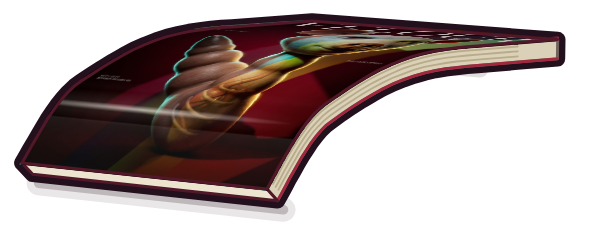
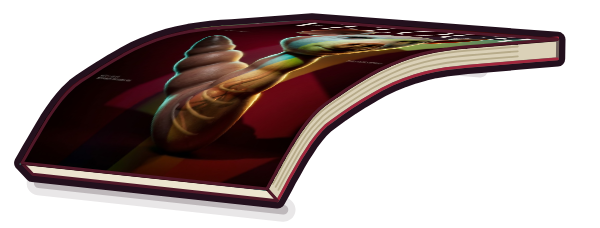
Журнал похоти: без блика и тени на верхнем журнале
На посадке поверх лёгшего css-журнала проявлялась картинка сцены, и
блик на перегибе с тенью по провису вырастали из ниоткуда. Свет убран
и с картинки (перезапечена), и с летящего журнала.

Claude-Session: https://claude.ai/code/session_01K1upDKnodTpzUTVuA9HxnG

Changed region(s): [[0.09, 0.4298, 0.45, 0.5833], [0.51, 0.1228, 0.87, 0.2149], [0.45, 0.5833, 0.48, 0.614]]

diff --git a/src/minigames/lust/lust-mag.js b/src/minigames/lust/lust-mag.js
@@ -132,9 +132,10 @@ const LustMag = {
         this._inner = null; this.inner(false);
         // Призрак — та же запечённая картинка, что лежит в сцене, на её
         // точном месте. Летит та же толстая модель, но картинка сцены
-        // нарисована тоньше css (свет, блик, тень на крышке) — подмена идёт
+        // нарисована тоньше css (скругления, тень на крышке) — подмена идёт
         // растворением поверх журнала, пока тот ещё лежит (GHOST мс); на
-        // закрытии картинка проявляется, когда журнал уже лёг.
+        // закрытии картинка проявляется, когда журнал уже лёг. Света на
+        // верхнем журнале нет ни там, ни там (bath-mag.js, drawVector).
         const gh = this.$('.bm-ghost'), B = typeof BATH_MAG_BAKED !== 'undefined' ? BATH_MAG_BAKED.top : null;
         if (B) {
             const c = G.c;
@@ -210,7 +211,6 @@ const LustMag = {
         const Mg = PALETTE.bathScene.magazine, Pp = Mg.paper, ink = PALETTE.ink;
         const cl = (v) => Math.max(0, Math.min(1, v));
         const paper = (t) => mixColor(Pp.lo, Pp[500], cl((t + 0.45) / 0.9));
-        const ic = parseCssColor(ink), shade = (a) => `rgba(${ic.r},${ic.g},${ic.b},${a.toFixed(3)})`;
         // Линии листов поперёк толщины — как у торца на картинке (bath-mag.js, pages).
         const leaves = (deg, t) => `linear-gradient(${deg}deg, ${paper(t)} 0 26%, ${Pp.line} 26% 32%, ${paper(t)} 32% 51%, ${Pp.line} 51% 57%, ${paper(t)} 57% 76%, ${Pp.line} 76% 82%, ${paper(t)} 82%)`;
         const spine = `linear-gradient(90deg, ${Mg.pinup[500]}, ${Mg.pinup.lo})`;
@@ -282,7 +282,6 @@ const LustMag = {
             const at = (x, u, d) => [x, q.y + c * u + sn * d, q.z + sn * u - c * d];   // u — вдоль, d — вглубь
             const top = i === 0 ? across(at(LW / 2, 0, 0), X, ay, T1) : 0;
             const bgH = LH * g.L / g.flat;
-            const dk = cl((0.9 - T.cover[i]) * 1.6) * 0.35;
             const side = (bg) => `${bg} 0 0 / ${px(D)} 100% no-repeat`;
             let ends = '';
             if (i === 0) {
@@ -300,7 +299,7 @@ const LustMag = {
                 + face('bm-sn', 0, D + sN, h, side(leaves(90, T.near)), ln(`0 ${px(sN)} 0 0`))
                 + ends
                 + face('bm-sc', -bL, LW + bL + bR, h + top, `${url} ${px(bL)} ${px(top - g.v * bgH / LH)} / ${px(LW)} ${px(bgH)} no-repeat`,
-                       ln(`${px(top)} ${px(bR)} 0 0`, `${wedge(bL - wN[i], bL - wN[i + 1], h + top)}, linear-gradient(90deg, transparent 0 ${px(bL)}, ${shade(dk)} ${px(bL)})`))
+                       ln(`${px(top)} ${px(bR)} 0 0`, wedge(bL - wN[i], bL - wN[i + 1], h + top)))
                     .replace('style="', `style="top:${px(-top)};`)
                 + `</div>`;
         });
@@ -366,8 +365,7 @@ const LustMag = {
         on(this.$('.bm-a'), false);
         if (!this.lnEls) this.lnEls = this.$$('.bm-bent .bm-ln');
         // Гаснут к середине выпрямления: линии в ракурсе лежащего журнала
-        // толще в его точках и на развороте раздувались бы серыми полосами,
-        // а тень на нахлёсте полос — точечными швами.
+        // толще в его точках и на развороте раздувались бы серыми полосами.
         const ao = Math.max(0, Math.min(1, (a - 0.5) / 0.5));
         this.lnEls.forEach(el => this.put(el, 'opacity', ao.toFixed(3)));
         const pose = this.bentPose(a), f4 = (v) => v.toFixed(3);

diff --git a/src/minigames/lust/bath-mag.js b/src/minigames/lust/bath-mag.js
@@ -245,11 +245,12 @@ const BATH_MAG = {
         const [TW, TH] = G.top.size, [SW, SH] = [210, 280];
         const T = G.top;
         const names = ['teal', 'mustard'], ramps = [Mg.teal, Mg.mustard];
-        // Тон кусков верхнего вдоль v: по середине каждого треугольника.
-        const tones = [];
-        T.strips.forEach(s => { const vs = s.uv.map(q => q[1]); tones.push([(Math.min(...vs) + Math.max(...vs)) / 2, s.tone]); });
-        tones.sort((a, b) => a[0] - b[0]);
-        let defs = this.pattern('btm-lit-top', TW, TH, this.covers.top(TW, TH) + this.light('btm-l-top', TW, TH, tones));
+        // Верхний — БЕЗ света (тени по провису и блика на перегибе): он
+        // взлетает, а на посадке поверх css-журнала проявлялась картинка
+        // сцены, и блик с тенью вырастали на уже лёгшем журнале из ниоткуда —
+        // игрок просил их убрать (docs/traps.md, п. 163). Летящий журнал
+        // тоже без них, и подмена в обе стороны — одна и та же картинка.
+        let defs = this.pattern('btm-lit-top', TW, TH, this.covers.top(TW, TH));
         G.stack.forEach((m, i) => {
             defs += this.pattern(`btm-lit-${names[i]}`, SW, SH, this.covers[names[i]](SW, SH)
                 + this.light(`btm-l-${names[i]}`, SW, SH, [[0, m.top.tone], [SH, m.top.tone]]));
